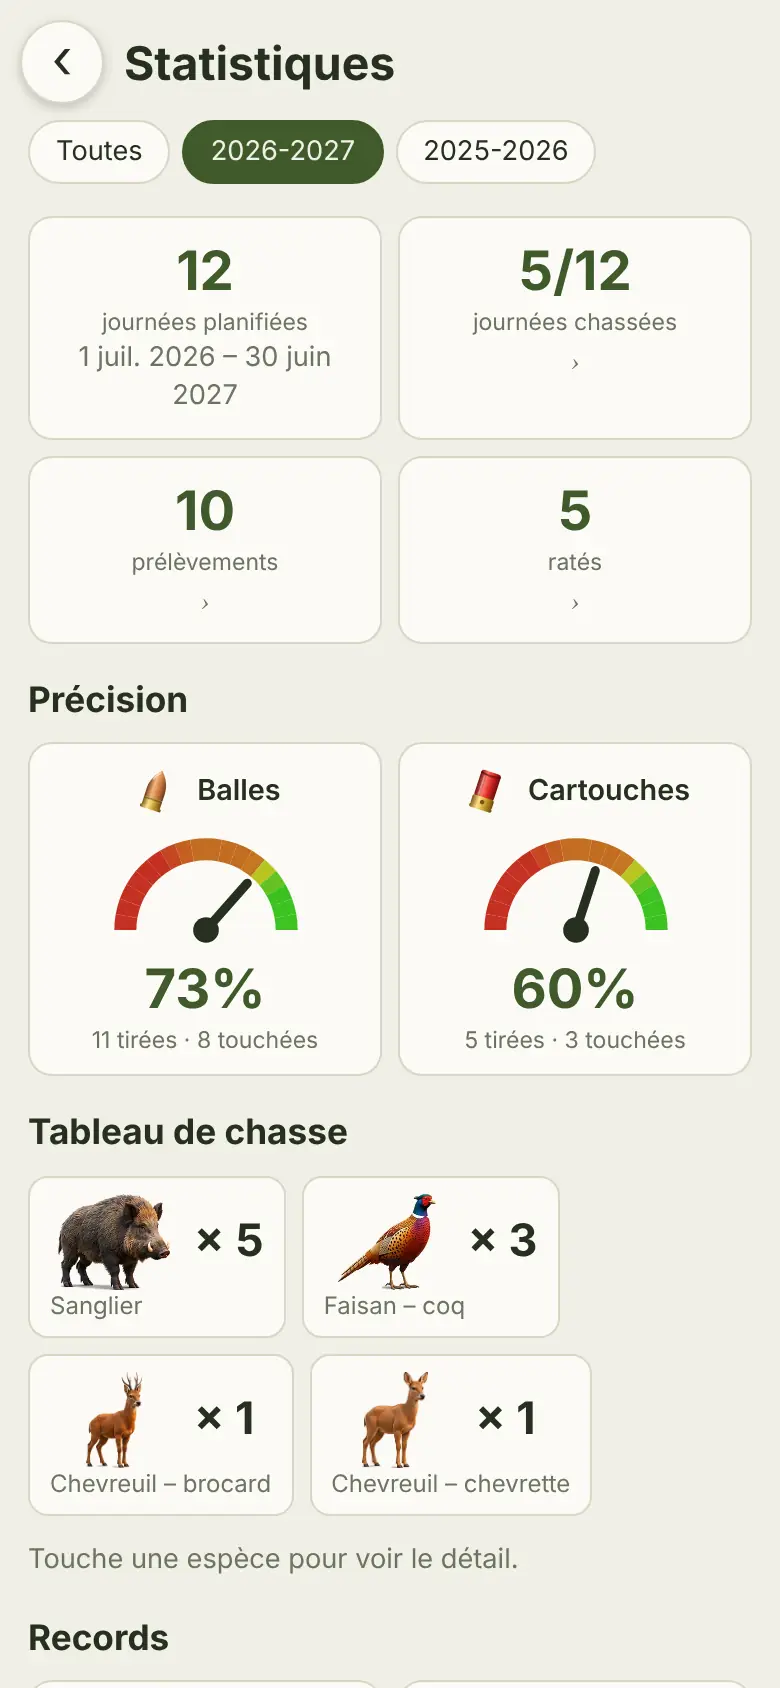
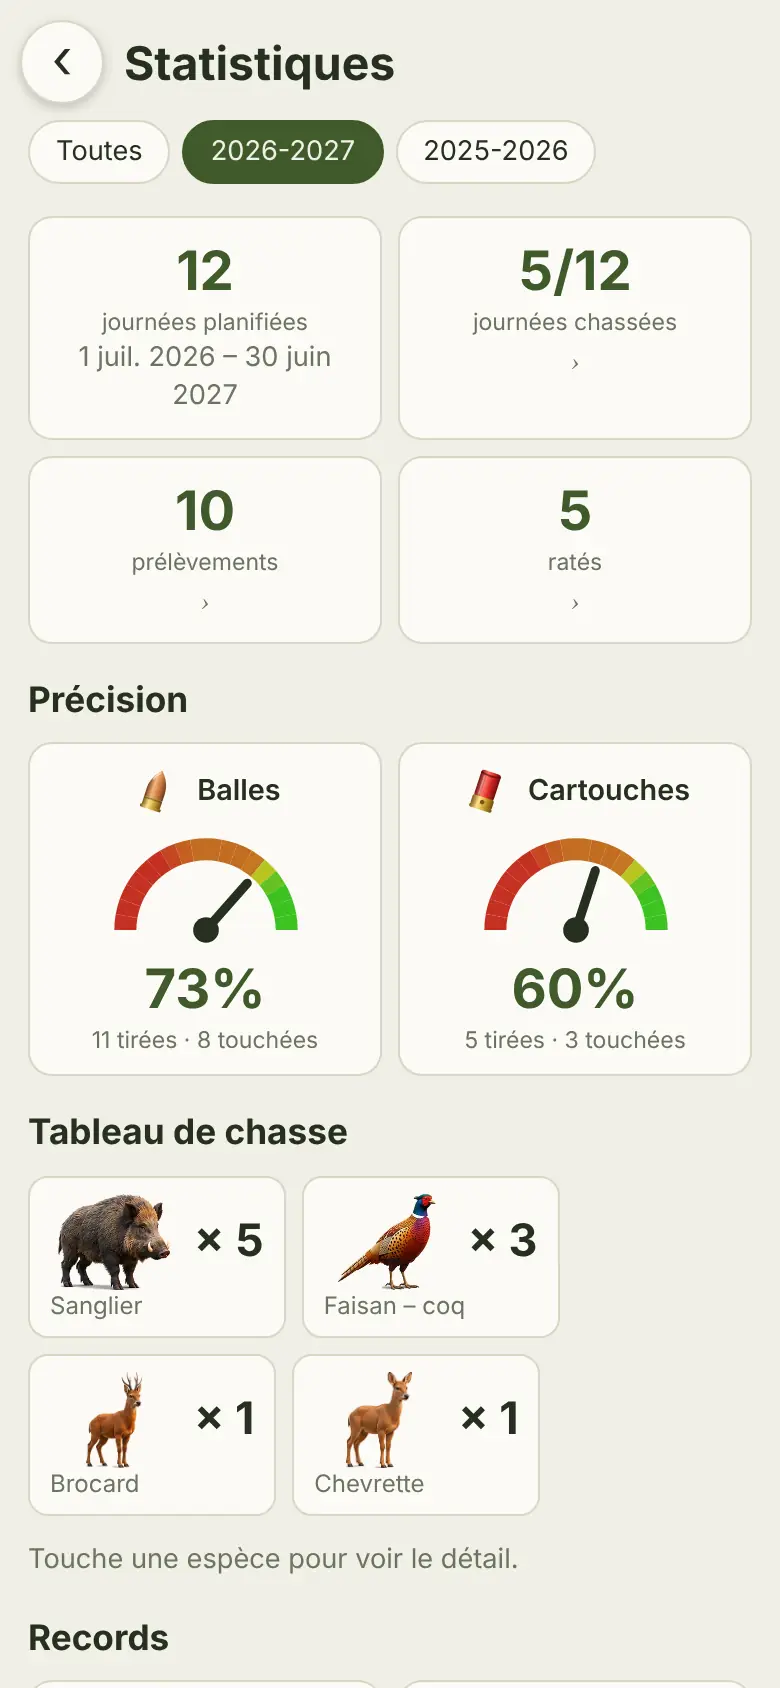
Noms courts : Cerf mâle, Biche, Bichette, Faon, Brocard, Chevrette, Chevrillard – version 2026-10-09i
Claude-Session: https://claude.ai/code/session_0186hciEuPyU4mgRMjZZiZQe

diff --git a/index.html b/index.html
@@ -188,18 +188,20 @@ html.in-on,html.in-on body{overflow:hidden}
 <hr><button class="m" id="m-tour" style="font-weight:700;color:var(--acc)">▶ Découvre l'application</button><button class="m" id="m-ouv">Périodes d'ouverture</button><button class="m" id="m-mg">Gérer mes espèces et modes de chasse</button><button class="m" id="m-ar">Mes armes</button><button class="m" id="m-rm">Paramètres de rappels</button>
 <div style="margin-top:auto"><button id="m-fb" style="display:block;width:100%;text-align:center;border:0;border-radius:12px;background:#e8a032;color:#2a1c05;font:800 1rem system-ui;padding:14px 10px;box-shadow:0 3px 10px #0003;margin-bottom:6px">Envoyez-nous un commentaire !</button><button id="m-nl" class="m" style="text-align:center;font-weight:600;color:var(--acc);margin-bottom:4px">Être prévenu de la sortie</button><button id="m-inv" style="display:block;width:100%;text-align:center;border:2px solid var(--acc);border-radius:12px;background:none;color:var(--acc);font:700 .95rem system-ui;padding:11px 10px;margin-bottom:6px">Inviter un ami</button><hr><label>Thème</label><div class="seg" id="th"><button data-th="light">Clair</button><button data-th="dark">Sombre</button><button data-th="auto">Auto</button></div><label>Fréquence de synchronisation</label><select id="sy">
 <option value="manual">Manuelle</option><option value="15">Toutes les 15 minutes</option><option value="60">Toutes les heures</option><option value="day">Une fois par jour</option><option value="wifi">Dès que le réseau revient</option></select>
-<button class="m" id="m-sy">Synchroniser maintenant</button><button class="m" id="m-im">Importer un calendrier</button><button class="m" id="m-ex">Exporter mon calendrier</button><button class="m" id="m-bk">Sauvegarde automatique</button><p style="margin:10px 8px 0;font:.75rem system-ui;color:var(--mut)">ChasseLog bêta web · version 2026-10-09h<br>Météo : KNMI Harmonie (2 km) et ECMWF, via Open-Meteo.com</p></div></aside>
+<button class="m" id="m-sy">Synchroniser maintenant</button><button class="m" id="m-im">Importer un calendrier</button><button class="m" id="m-ex">Exporter mon calendrier</button><button class="m" id="m-bk">Sauvegarde automatique</button><p style="margin:10px 8px 0;font:.75rem system-ui;color:var(--mut)">ChasseLog bêta web · version 2026-10-09i<br>Météo : KNMI Harmonie (2 km) et ECMWF, via Open-Meteo.com</p></div></aside>
 <div id="page"><main id="app"></main></div>
 <script>
 const G={"Grand gibier":["Cerf élaphe","Chevreuil","Sanglier","Daim","Mouflon"],
 "Petit gibier":["Lièvre","Faisan","Perdrix grise","Bécasse des bois"],
 "Gibier d'eau":["Canard colvert","Bernache du Canada","Foulque macroule"],
 "Autre gibier":["Lapin de garenne","Pigeon ramier","Renard"]};
-const CLS={"Cerf élaphe":["Mâle","Femelle","Jeune"],"Daim":["Mâle","Femelle","Jeune"],"Chevreuil":["Brocard","Chevrette","Chevrillard"]};
-const CL={"Cerf élaphe":{m:"mâle",f:"femelle",j:"jeune"},"Daim":{m:"mâle",f:"femelle",j:"jeune"},"Chevreuil":{m:"brocard",f:"chevrette",j:"chevrillard"},"Faisan":{m:"coq",f:"poule"}};
-const XT={"Cerf élaphe":["Cerf élaphe – mâle","Cerf élaphe – femelle","Cerf élaphe – jeune"],"Daim":["Daim – mâle","Daim – femelle","Daim – jeune"],"Chevreuil":["Chevreuil – brocard","Chevreuil – chevrette","Chevreuil – chevrillard"],"Faisan":["Faisan – coq","Faisan – poule"]};
+const CLS={"Cerf élaphe":["Cerf mâle","Biche","Bichette","Faon"],"Daim":["Mâle","Femelle","Jeune"],"Chevreuil":["Brocard","Chevrette","Chevrillard"]};
+const CL={"Cerf élaphe":{m:"mâle",f:"biche",b:"bichette",j:"faon"},"Daim":{m:"mâle",f:"femelle",j:"jeune"},"Chevreuil":{m:"brocard",f:"chevrette",j:"chevrillard"},"Faisan":{m:"coq",f:"poule"}};
+const XT={"Cerf élaphe":["Cerf mâle","Biche","Bichette","Faon"],"Daim":["Daim – mâle","Daim – femelle","Daim – jeune"],"Chevreuil":["Brocard","Chevrette","Chevrillard"],"Faisan":["Faisan – coq","Faisan – poule"]};
 const COR=sp=>sp=="Cerf élaphe"||sp=="Chevreuil";
-const tname=t=>(t.sx&&CL[t.sp]&&CL[t.sp][t.sx])?t.sp+" – "+CL[t.sp][t.sx]:t.sp;
+const SXC={"Cerf élaphe":"mfbj"},sxc=sp=>SXC[sp]||"mfj";
+const TN={"Cerf élaphe":{m:"Cerf mâle",f:"Biche",b:"Bichette",j:"Faon"},"Chevreuil":{m:"Brocard",f:"Chevrette",j:"Chevrillard"}};
+const tname=t=>(t.sx&&TN[t.sp]&&TN[t.sp][t.sx])?TN[t.sp][t.sx]:(t.sx&&CL[t.sp]&&CL[t.sp][t.sx])?t.sp+" – "+CL[t.sp][t.sx]:t.sp;
 const sxi=x=>x?`<span class="sxi ${x}">${x=="m"?"♂":"♀"}</span>`:"";
 const extra=t=>{const f=a=>(a||[]).slice(0,t.p).filter(x=>x!==""&&x!=null),w=f(t.w),c=f(t.c);return(t.sp=="Sanglier"&&w.length?" · "+w.join(", ")+" kg":"")+(c.length&&COR(t.sp)&&t.sx=="m"?" · "+c.join(", ")+" cors":"")};
 const MODES=["Battue","Approche","Affût","Poussée silencieuse","Chasse devant soi","Chasse à la passée","Chasse à la hutte","Chasse au chien d'arrêt","Chasse au terrier","Chasse à courre","Fauconnerie"];
@@ -384,7 +386,7 @@ let BIP=null;addEventListener("beforeinstallprompt",e=>{e.preventDefault();BIP=e
  $("#in-sk").onclick=()=>{try{sessionStorage.setItem("chasselog-skipinst","1")}catch(e){}o.remove();document.documentElement.classList.remove("in-on")}})();
 
 /* ---------- visite guidée « Découvre l'application » ---------- */
-const TAPS={"mn":[30,26],"ouv":[149.5,297.5],"om":[192.2,102.9],"fab":[344,796],"title":[195,190.8],"ta":[122.6,434.6],"save":[285.5,813],"pst":[195,26],"bang":[195,793],"psok":[330.8,762.3],"sang":[71.7,172.8],"plus":[112,311.2],"ok":[195,792],"cpl":[283.1,101.5],"sx":[81.4,251],"kg":[252,456],"photo":[167,555.3],"tb":[195,696.6],"tabplus":[344,549.2],"fsave":[285.5,813],"share":[195,152.3],"stats":[46,796],"sprev":[248,75.6]};
+const TAPS={"mn":[30,26],"ouv":[149.5,297.5],"om":[192.2,102.9],"fab":[344,796],"title":[195,190.8],"ta":[122.6,434.6],"save":[285.5,813],"pst":[195,26],"bang":[195,793],"psok":[330.8,762.3],"sang":[71.7,172.8],"plus":[112,311.2],"ok":[195,792],"cpl":[283.1,101.5],"sx":[81.4,251],"kg":[252,456],"photo":[167,555.3],"tb":[195,696.6],"tabplus":[344,591.2],"fsave":[285.5,813],"share":[195,152.3],"stats":[46,796],"sprev":[248,75.6]};
 // étapes : [titre, texte, actions]. Actions : ["s",écran] afficher, ["sl",écran] défiler, ["t",bouton] toucher, ["n",note] note jaune, ["w",ms] attendre, ["r",bouton] anneau, ["i",image] image par-dessus
 const TOUR=[
  ["Consulte les périodes d'ouverture","Les dates d'ouverture et de fermeture du gibier en Wallonie, selon ton mode de chasse.",[["s","cal0"],["w",1400],["t","mn"],["s","drawer"],["w",1500],["t","ouv"],["s","ouv0"],["n","Ce qui est ouvert aujourd'hui, avec la frise de la saison"],["w",3200],["t","om"],["s","ouv1"],["n","Choisis ton mode : battue, approche et affût, chasse à vol"],["w",2800],["sl","ouv2"],["w",1500]]],
@@ -568,7 +570,7 @@ function rPick(){const e=S.ev[fe],qk=pickCtx&&pickCtx.mode=="quick",one=x=>`<but
  $("#app").innerHTML=`${BKB}<h1 style="margin-top:4px;padding-left:48px">Quel gibier ?</h1><p class="mut sans" style="margin-top:-6px;padding-left:48px">${e?esc(e.title):""}</p>
  <h2>Les plus courants</h2><div class="pkg">${commonSp().map(tile).join("")}</div>${Object.entries(visSp()).map(([g,a])=>`<h2>${esc(g)}</h2><div class="pkg">${a.map(tile).join("")}</div>`).join("")}<div style="height:40px"></div>`;
  $("#bk2").onclick=()=>{if(pickCtx&&pickCtx.mode=="quick"){pickCtx=null;go("cal")}else go("fiche")};
- document.querySelectorAll("[data-pk]").forEach(b=>b.onclick=()=>{let sp=b.dataset.pk,sx=null;const fam=Object.keys(XT).find(f=>CLS[f]&&XT[f].includes(sp));if(fam){sx="mfj"[XT[fam].indexOf(sp)];sp=fam}const t={id:"k"+Date.now(),sp,u:UNIT(sp),n:0,h:0,p:0,m:0,loc:null,ok:false,sx,w:[],c:[],gun:gunOf(S.lastGun)?S.lastGun:null,poste:curPoste(S.ev[fe])};
+ document.querySelectorAll("[data-pk]").forEach(b=>b.onclick=()=>{let sp=b.dataset.pk,sx=null;const fam=Object.keys(XT).find(f=>CLS[f]&&XT[f].includes(sp));if(fam){sx=sxc(fam)[XT[fam].indexOf(sp)];sp=fam}const t={id:"k"+Date.now(),sp,u:UNIT(sp),n:0,h:0,p:0,m:0,loc:null,ok:false,sx,w:[],c:[],gun:gunOf(S.lastGun)?S.lastGun:null,poste:curPoste(S.ev[fe])};
   fd.tirs.unshift(t);if(pickCtx&&pickCtx.mode=="quick")quickTid=t.id;pickCtx=null;go("fiche")})}
 function posteModal(id){const e=S.ev[id];e.postes=e.postes||[];
  const draw=()=>{modal(`<h2>Numéro de poste</h2><p class="mut sans" style="margin-top:-4px">${esc(e.title)}</p>
@@ -613,11 +615,11 @@ async function shareDay(id){const e=S.ev[id],f=e.fiche,a=agg([e]),W=1080,c=docum
 const CC="Uniquement sur les territoires des conseils cynégétiques agréés.";
 const OUV=[
  ["Grand gibier",[
-  {sp:"Cerf",img:"Cerf élaphe – mâle",n:"Soumis au plan de tir.",rows:[
+  {sp:"Cerf",img:"Cerf mâle",n:"Soumis au plan de tir.",rows:[
    {l:"Grands cerfs boisés",aa:[["09-21","12-31"]],tir:[["10-01","12-31"]],n:"Uniquement conseils cynégétiques agréés et Chasse royale de Ciergnon. Interdit ailleurs."},
    {l:"Petits cerfs",aa:[["09-21","01-31"]],tir:[["10-01","01-31"]],n:"Uniquement conseils cynégétiques agréés et Chasse royale de Ciergnon. Interdit ailleurs."},
    {l:"Biches, bichettes et faons",aa:[["09-21","01-31"]],tir:[["10-01","01-31"]]}]},
-  {sp:"Chevreuil",img:"Chevreuil – brocard",rows:[
+  {sp:"Chevreuil",img:"Brocard",rows:[
    {l:"Brocards",aa:[["04-15","05-15"],["07-15","08-15"],["10-01","12-31"]],tir:[["10-01","12-31"]],n:"Appeau autorisé à l'approche et à l'affût."},
    {l:"Chevrettes, chevrillards et faons",aa:[["10-01","12-31"]],tir:[["10-01","12-31"]]}]},
   {sp:"Daim",rows:[{aa:[["09-21","01-31"]],tir:[["10-01","01-31"]]}]},
@@ -753,7 +755,7 @@ function rArmes(){S.guns=S.guns||[];const cat=ag.type?ARMES[ag.type]:null,brandO
 /* ---------- rappels ---------- */
 const RM=()=>{if(!S.rem)S.rem={};const r=S.rem;if(r.sleep===undefined)r.sleep=false;if(!r.time)r.time="20:00";if(r.auto===undefined)r.auto=false;return r};
 const dueOf=e=>new Date(e.date+"T"+e.rem+":00").getTime();
-const APP_V="2026-10-09h",APP_URL="https://chasselog-coder.github.io/ChasseLog/";
+const APP_V="2026-10-09i",APP_URL="https://chasselog-coder.github.io/ChasseLog/";
 const REM_ON=false;
 async function syncRem(){if(!REM_ON)return;try{const RMs=RM(),now=Date.now();let old=[];try{old=JSON.parse(await DB.get("_rem")||"[]")}catch(x){}const fired=new Set(old.filter(x=>x.fired).map(x=>x.id+"|"+x.due));
  const list=RMs.sleep?[]:evs().filter(e=>e.rem&&!e.fiche&&!e.remDone&&now-dueOf(e)<36*36e5).map(e=>({id:e.id,title:e.title,date:e.date,due:dueOf(e),fired:fired.has(e.id+"|"+dueOf(e))}));await DB.put("_rem",JSON.stringify(list));
@@ -971,7 +973,7 @@ function rFiche(){const e=S.ev[fe],all=visSp(),nt=fd.tab?Object.values(fd.tab).r
   return `<div class="det"><span class="mut sans">${k=="w"?"Poids (kg)":"Nombre de cors"}</span>${Array.from({length:t.p},(_,i)=>`<label class="dl sans"><span>${k=="w"?"Sanglier":"Mâle"} ${i+1}</span><input type="number" min="0" step="${k=="w"?"0.5":"1"}" inputmode="${k=="w"?"decimal":"numeric"}" data-dk="${t.id}|${k}|${i}" value="${esc(t[k][i]??"")}" placeholder="${k=="w"?"kg":"cors"}"></label>`).join("")}</div>`};
  const card=t=>{const nm=tname(t),isCl=!!CLS[t.sp],qk=quickTid==t.id;
   if(t.ok!==false)return `<div class="card cd sans" data-o="${t.id}">${sil(nm,44)}<div style="flex:1;min-width:0"><b>${esc(nm)}</b> ${isCl?"":sxi(t.sx)}<br><span class="mut">Prélevé ${t.p} · Raté ${t.m} · Touché ${t.h} · ${t.n} ${UL[t.u].toLowerCase()}${esc(extra(t))}</span></div><span class="vk" aria-hidden="true">✓</span></div>`;
-  const pick=isCl?`<div class="seg" style="margin-top:8px">${CLS[t.sp].map((l,i)=>`<button data-sx="${t.id}:${"mfj"[i]}" class="${t.sx=="mfj"[i]?"on":""}">${l}</button>`).join("")}</div>`:`<div class="row sans" style="gap:6px;margin-top:8px;justify-content:flex-start"><span class="mut" style="flex:0 0 auto">Sexe</span><button class="sx m${t.sx=="m"?" on":""}" data-sx="${t.id}:m" aria-label="Mâle" style="flex:0 0 auto">♂</button><button class="sx f${t.sx=="f"?" on":""}" data-sx="${t.id}:f" aria-label="Femelle" style="flex:0 0 auto">♀</button></div>`;
+  const pick=isCl?`<div class="seg" style="margin-top:8px">${CLS[t.sp].map((l,i)=>`<button data-sx="${t.id}:${sxc(t.sp)[i]}" class="${t.sx==sxc(t.sp)[i]?"on":""}">${l}</button>`).join("")}</div>`:`<div class="row sans" style="gap:6px;margin-top:8px;justify-content:flex-start"><span class="mut" style="flex:0 0 auto">Sexe</span><button class="sx m${t.sx=="m"?" on":""}" data-sx="${t.id}:m" aria-label="Mâle" style="flex:0 0 auto">♂</button><button class="sx f${t.sx=="f"?" on":""}" data-sx="${t.id}:f" aria-label="Femelle" style="flex:0 0 auto">♀</button></div>`;
   return `<div class="card tc"><div class="tcm"><div class="row sans" style="gap:8px"><span style="flex:0 0 auto">${sil(nm,40)}</span><b>${esc(t.sp)}</b><button class="s" data-u="${t.id}" style="flex:0 0 auto">${UL[t.u]} ⇄</button><button class="d" data-x="${t.id}" style="flex:0 0 auto">${qk?"Annuler":"Retirer"}</button></div>${pick}
   <div class="g4">${[["n",UL[t.u]+" tirées"],["h","Touché"],["p","Prélevé"],["m","Raté"]].map(([k,lb])=>`<div><span class="mut sans">${lb}</span><div class="st"><button data-t="${t.id}" data-k="${k}" data-n="-1">−</button><b>${t[k]}</b><button data-t="${t.id}" data-k="${k}" data-n="1">+</button></div></div>`).join("")}</div>${qk?(t.p&&(t.sp=="Sanglier"||(COR(t.sp)&&t.sx=="m"))?`<p class="mut sans" style="margin:8px 0 0;font-size:.85rem">${t.sp=="Sanglier"?"Le poids":"Le nombre de cors"} se complète plus tard dans la fiche.</p>`:""):detail(t)}
   ${(S.guns||[]).length?`<label class="sans" style="display:flex;align-items:center;gap:8px;margin-top:10px">${gunIc(16,"carabine")}<select data-gn="${t.id}" style="flex:1;margin:0"><option value="">Arme utilisée…</option>${S.guns.map(g=>`<option value="${g.id}" ${t.gun==g.id?"selected":""}>${esc(gl(g))}</option>`).join("")}</select></label>`:`<p class="mut sans" style="margin:10px 0 0">${gunIc(14)} Ajoute tes armes via le menu pour les choisir ici.</p>`}${qk?"":`<div class="ph">${(t.ph||[]).map((x,i)=>`<div><img data-pid="${x}" alt="Photo de l'animal"><button class="d" data-rtp="${t.id}|${i}">Retirer</button></div>`).join("")}</div><label class="s sans" style="display:block;text-align:center;border:1px solid var(--line);border-radius:8px;padding:9px;margin-top:8px;color:var(--ink)">📷 Photo de l'animal<input type="file" accept="image/*" data-tph="${t.id}" hidden></label>`}
@@ -1053,7 +1055,7 @@ const geai=`<g><path d="M15 30L3 34L16 36Z" ${Fl("bk")}/><ellipse cx="28" cy="31
 const renard=`<g>${legs([17,21,37,41],34,44.5,"bk",2.8)}<ellipse cx="10" cy="31" rx="11" ry="5.2" transform="rotate(-14 10 31)" ${Fl("rd")}/><ellipse cx="2.8" cy="33.8" rx="3.6" ry="3" ${Fl("wh")}/><ellipse cx="28" cy="32" rx="14.5" ry="7" ${Fl("rd")}/><ellipse cx="29" cy="35.5" rx="10" ry="3" ${Fl("cr")} opacity=".7"/><path d="M38 26L44 22L49 24L47 33L40 34Z" ${Fl("rd")}/><path d="M43 22.5L56 29.2L47.5 33.2L42 31Z" ${Fl("rd")}/><path d="M44 31.5L53 31L47.5 34Z" ${Fl("wh")}/><path d="M43 23L44.4 14L49.5 21.5Z" ${Fl("rd")}/><path d="M44.5 21.5L45 17L47.5 20.8Z" fill="#2a1a10"/><circle cx="56.2" cy="29.2" r="1.5" fill="#111"/>${Ey(49,25.6,.9)}</g>`;
 const rongeur=(c,s)=>`<g transform="translate(32 44.5) scale(${s}) translate(-32 -44.5)"><path d="M11 37Q2 39 3 31Q4 27 8 29" fill="none" stroke="#33281e" stroke-width="2" stroke-linecap="round"/>${legs([20,40],38,44.5,"dk",4)}<ellipse cx="27" cy="33" rx="17.5" ry="10" ${Fl(c)}/><ellipse cx="45" cy="32" rx="8" ry="6" ${Fl(c)}/><circle cx="52.5" cy="33.5" r="1.7" fill="#1b1410"/><rect x="50.5" y="35.5" width="2.4" height="3" rx=".8" fill="#f09030"/><circle cx="43" cy="26.5" r="2.2" ${Fl(c)}/>${Ey(48.5,29.5,.9)}<path d="M52 33L58 31M52 34.5L58 35" stroke="#f5f0e4" stroke-width=".5"/></g>`;
 const ART={cerf:deer({c:"br",a:2,s:1}),biche:deer({c:"br",s:.93}),bichette:deer({c:"br",s:.8}),faon:deer({c:"br",s:.62,sp:1}),brocard:deer({c:"tn",a:1,r:1,s:.78}),chevrette:deer({c:"tn",r:1,s:.74}),chevrillard:deer({c:"tn",r:1,s:.55,sp:1}),daim:deer({c:"tn",a:3,sp:1,s:.88}),mouflon,sanglier:boar,lievre:hare(10,1),lapin:hare(5.5,.78),fcoq,fpoule,perdrix,becasse,pigeon,colvert:duck("gn","gy","br","bl"),chipeau:duck("g2","gy","bk","wh"),siffleur:duck("rs","gy","pk","gy"),souchet:duck("gn","rs","wh","bl"),pilet:duck("br","gy","wh","gn"),sarcelle:duck("rs","gy","tn","gn"),fuligule:duck("rs","bk","gy","gy"),oie,corbeau,pie,geai,renard,ragondin:rongeur("dk",1),rat:rongeur("bk",.7)};
-function silType(s){const n=s.toLowerCase();
+function silType(s){const n=s.toLowerCase(),EX={"cerf mâle":"cerf","biche":"biche","bichette":"bichette","faon":"faon","brocard":"brocard","chevrette":"chevrette","chevrillard":"chevrillard"};if(EX[n])return EX[n];
  if(n=="cerf élaphe"||n=="cervidé"||n=="cervide")return "cervide";
  if(n.startsWith("daim"))return /femelle|daine/.test(n)?"daimf":/jeune|faon/.test(n)?"daimj":/mâle|male/.test(n)?"daimm":"daim";if(n=="chevreuil")return "chevreuil";
  if(n.startsWith("mouflon"))return /femelle|brebis/.test(n)?"mouflonf":/agneau|jeune/.test(n)?"agneau":"mouflon";
@@ -1164,7 +1166,7 @@ function rStats(){const withF=evs().filter(e=>e.fiche),seasons=[...new Set([seas
  <div class="kp" style="margin-top:8px;grid-template-columns:1fr 1fr"><button class="sc2" data-kp="p"><b>${a.p}</b><span>prélèvements</span><i class="chev">›</i></button><button class="sc2" data-kp="r"><b>${a.m}</b><span>ratés</span><i class="chev">›</i></button></div>
  ${a.bn||a.cn?`<h2>Précision</h2><div class="pg2">${gb(a.bn,a.bh,"b","Balles")}${gb(a.cn,a.ch,"c","Cartouches")}</div>`:""}
  ${Object.keys(bySp).length?`<h2 id="tbc">Tableau de chasse</h2><div class="tls">${Object.entries(bySp).sort((x,y)=>y[1]-x[1]).map(([k,v])=>`<button class="tl" data-sp="${esc(k)}"><div class="sv">${sil(k,64)}<b>× ${v}</b></div>${esc(k)}</button>`).join("")}</div><p class="mut sans">Touche une espèce pour voir le détail.</p>`:""}
- ${hw||hc||hb?`<h2>Records</h2><div class="kp">${hw?`<div class="sc2">${sil("Sanglier",56)}<b>${hw} kg</b><span>plus lourd sanglier</span></div>`:""}${hc?`<div class="sc2">${sil("Cerf élaphe – mâle",56)}<b>${hc}</b><span>cors max (cerf)</span></div>`:""}${hb?`<div class="sc2">${sil("Chevreuil – brocard",56)}<b>${hb}</b><span>cors max (brocard)</span></div>`:""}</div>`:""}
+ ${hw||hc||hb?`<h2>Records</h2><div class="kp">${hw?`<div class="sc2">${sil("Sanglier",56)}<b>${hw} kg</b><span>plus lourd sanglier</span></div>`:""}${hc?`<div class="sc2">${sil("Cerf mâle",56)}<b>${hc}</b><span>cors max (cerf)</span></div>`:""}${hb?`<div class="sc2">${sil("Brocard",56)}<b>${hb}</b><span>cors max (brocard)</span></div>`:""}</div>`:""}
  ${lucky?`<h2>Poste porte-bonheur</h2><div class="card sans" style="text-align:center">Ton numéro de poste porte-bonheur est le <b style="font-size:1.5rem;color:var(--acc)">${esc(lucky[0])}</b><br><span class="mut">${lucky[1].p} prélèvement${lucky[1].p>1?"s":""} · ${lucky[1].d.size} journée${lucky[1].d.size>1?"s":""} à ce poste</span></div>`:""}
  ${gunStats?`<h2>Par arme</h2>${gunStats}`:""}
  ${shotSec(L)}
@@ -1185,11 +1187,11 @@ function rStats(){const withF=evs().filter(e=>e.fiche),seasons=[...new Set([seas
   drill(`${sil(k,56)}<span>${esc(k)}</span>`,`<div class="kp" style="margin-bottom:10px"><div class="sc2"><b>${tot}</b><span>prélèvements</span></div><div class="sc2"><b>${rows.length}</b><span>journées</span></div>${ws.length?`<div class="sc2"><b>${av(ws)}</b><span>kg en moyenne</span></div>`:cs.length?`<div class="sc2"><b>${av(cs)}</b><span>cors en moyenne</span></div>`:""}</div>`,rows)});
  document.querySelectorAll("[data-pl]").forEach(b=>b.onclick=()=>{const k=b.dataset.pl,es=L.filter(e=>place(e)==k);
   drill(`<span>📍 ${esc(k)}</span>`,`<div class="kp" style="margin-bottom:10px"><div class="sc2"><b>${es.length}</b><span>journées</span></div><div class="sc2"><b>${bySec[k]}</b><span>prélèvements</span></div></div>`,es.map(e=>({e,txt:pt(e)+" prélèvement"+(pt(e)>1?"s":"")})))})}
-function migrate(){const NEW="Cerf élaphe",mp={cerf:"m",biche:"f",bichette:"j",faon:"j",brocard:"m",chevrette:"f",chevrillard:"j",coq:"m",poule:"f","mâle":"m",femelle:"f",jeune:"j"},tn={cerf:"mâle",biche:"femelle",bichette:"jeune",faon:"jeune"};
+function migrate(){const REN={"Cerf élaphe – mâle":"Cerf mâle","Cerf élaphe – femelle":"Biche","Cerf élaphe – bichette":"Bichette","Cerf élaphe – jeune":"Faon","Chevreuil – brocard":"Brocard","Chevreuil – chevrette":"Chevrette","Chevreuil – chevrillard":"Chevrillard"},NEW="Cerf élaphe",mp={cerf:"m",biche:"f",bichette:"b",faon:"j",brocard:"m",chevrette:"f",chevrillard:"j",coq:"m",poule:"f","mâle":"m",femelle:"f",jeune:"j"},tn={cerf:"mâle",biche:"femelle",bichette:"bichette",faon:"jeune"};
  S.hs=(S.hs||[]).map(x=>x=="Cerv"+"idé"?NEW:x);
  evs().forEach(e=>{const f=e.fiche;if(!f)return;
   (f.tirs||[]).forEach(t=>{const m=String(t.sp).match(/^(Cerf élaphe|Cerv[i]dé|Chevreuil|Faisan|Daim) – (.+)$/);if(m){t.sp=/^Cerv/.test(m[1])?NEW:m[1];t.sx=mp[m[2]]||t.sx||null}else if(/^Cerv[i]dé$/.test(t.sp))t.sp=NEW});
-  if(f.tab){const n={};Object.entries(f.tab).forEach(([k,v])=>{const m=k.match(/^(?:Cerf élaphe|Cerv[i]dé)(?: – (.+))?$/);if(m)k=NEW+(m[1]?" – "+(tn[m[1]]||m[1]):"");n[k]=(n[k]||0)+v});f.tab=n}});save()}
+  if(f.tab){const n={};Object.entries(f.tab).forEach(([k,v])=>{const m=k.match(/^(?:Cerf élaphe|Cerv[i]dé)(?: – (.+))?$/);if(m)k=NEW+(m[1]?" – "+(tn[m[1]]||m[1]):"");k=REN[k]||k;n[k]=(n[k]||0)+v});f.tab=n}});save()}
 applyTheme();migrate();
 go("cal");
 migratePhotos().then(c=>{if(c)render()}).catch(()=>{});

diff --git a/sw.js b/sw.js
@@ -1,6 +1,6 @@
 // Service worker : met l'application en cache pour qu'elle fonctionne sans connexion.
 // Les fonds de carte (OpenStreetMap) ne sont volontairement PAS mis en cache.
-const V = "carnet-v26";
+const V = "carnet-v27";
 const FILES = [
   "./", "index.html", "manifest.webmanifest",
   "icons/icon-192.png", "icons/icon-512.png", "icons/maskable-512.png", "icons/apple-touch-icon.png",
